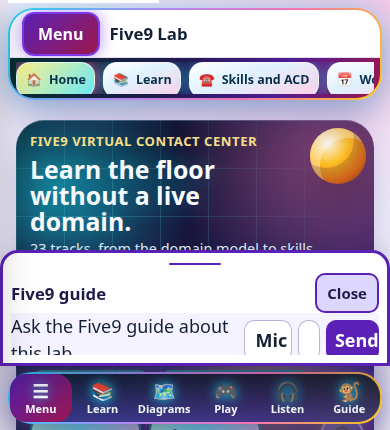
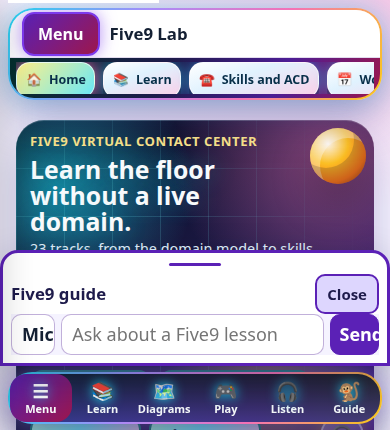
Widen the phone chat field and require a Five9 term for science questions.
The phone label was a flex item, so the input collapsed. Astronomy words no longer open the guide unless a curated Five9 term is present. The score floor stays at 2.4.

Changed region(s): [[0.0308, 0.6349, 0.9846, 0.8465]]

diff --git a/shared/pybot-chat/engine.js b/shared/pybot-chat/engine.js
@@ -236,7 +236,7 @@ function queryTokens(text, syn, pool, knownSet, seedPool, freq) {
     if (!isKnown(word)) {
       const collapsed = collapseToKnown(word, isKnown);
       if (collapsed) word = collapsed;
-      else if (allowFuzzy && !GENERIC_ENGLISH.has(word)) {
+      else if (allowFuzzy && !GENERIC_ENGLISH.has(word) && !GENERIC_ENGLISH.has(stem(word))) {
         const fix = fuzzy(word, pool, 0, freq);
         if (fix) word = fix;
         else if (seedPool && word.length <= 3) {
@@ -318,7 +318,8 @@ function injection(raw) {
 
 const AMBIGUOUS = new Set("set list time key name file type open read match pass break call run end add new get use make home world page level course value data text line number item code help start show play count group say says said want need look come take give know think tell tell history island python microsoft pizza password background crash prime topping change changed".split(" "));
 const STRONG_WORDS = new Set("five9 vcc adp campaign campaigns inbound outbound autodial disposition dispositions dnis ivr skill skills skillgroup queue queues acd preview progressive predictive power tcpa dnc manualtouch sip codec codecs webrtc ani crm cti salesforce servicenow adapter adapters sdk connector recording e911 voicemail prompt prompts profile profiles script scripts module modules gateway cutover partition csq uccx ucce workstation reason erlang supervisor permission contact contacts field fields dialer pacing abandon attestation retention screenpop callerid callanalysis servicelevel acw notready bandwidth nat tls pstn trunk trunks layout reporting wfm wem iva genai adherence forecast schedule quality evaluation coaching analytics wallboard dashboard zoom teams softphone station callback blended listpenetration timezone domain tenant redsky verint studio taskkey nlp transcript headset dns srv srtp rtp java jre variable variables".split(" "));
-const GENERIC_ENGLISH = new Set("time life home world page course help start people person spanish tokyo poem sea thank thanks meaning telephone calorie calories banana capital hiking restaurant population colour color breakfast winter rainfall lullaby haiku mango egg moon landing movie pizza weather flight story dragon cricket tire cake president bitcoin joke french goodbye".split(" "));
+const SCIENCE = new Set("mars jupiter saturn venus mercury neptune uranus pluto planet planets astronomy galaxy orbit orbits nasa solar star stars comet asteroid telescope lunar phobos deimos science physics chemistry biology geology universe cosmos gravity nebula eclipse meteor meteorite quantum einstein molecule molecules electron electrons atom atoms relativity observatory constellation supernova photosynthesis black hole holes dwarf dwarfs pulsar quasar milky moon moons".split(" "));
+const GENERIC_ENGLISH = new Set(`time life home world page course help start people person spanish tokyo poem sea thank thanks meaning telephone calorie calories banana capital hiking restaurant population colour color breakfast winter rainfall lullaby haiku mango egg landing movie pizza weather flight story dragon cricket tire cake president bitcoin joke french goodbye ${[...SCIENCE].join(" ")}`.split(" "));
 
 function buildDomain(df, seeds) {
   const strong = new Set(STRONG_WORDS);
@@ -350,7 +351,7 @@ function domainKind(word, domain, syn) {
 }
 
 function typoKind(word, domain, syn, pool, freq) {
-  if (!word || word.length < 4 || GENERIC_ENGLISH.has(word)) return "";
+  if (!word || word.length < 4 || GENERIC_ENGLISH.has(word) || GENERIC_ENGLISH.has(stem(word))) return "";
   const fix = fuzzy(word, pool, word.length >= 7 ? 2 : 1, freq);
   if (!fix) return "";
   if (STOP.has(fix) || STOP.has(stem(fix))) return "stop";
@@ -380,8 +381,10 @@ function hasDomainTerm(text, domain, syn, pool, freq) {
   let indexed = 0;
   let ambiguous = 0;
   let foreign = 0;
+  let science = 0;
   const lessonWord = (word) => domain.strong.has(word) || domain.strong.has(stem(word));
   for (const word of parts) {
+    if (SCIENCE.has(word) || SCIENCE.has(stem(word))) science += 1;
     if (inCurated(word, syn)) {
       curated += 1;
       continue;
@@ -401,6 +404,7 @@ function hasDomainTerm(text, domain, syn, pool, freq) {
     else if (word.length <= 3 || STOP.has(stem(word))) continue;
     else foreign += 1;
   }
+  if (science > 0 && curated === 0) return false;
   if (foreign > 0 && curated <= foreign) return false;
   if (curated > 0) return true;
   if (ambiguous > 0 && indexed === 0) return false;
@@ -626,7 +630,7 @@ export function createRetriever(index) {
       const stopFix = fuzzy(word, STOP_WORDS, 1);
       if (stopFix) return stopFix;
     }
-    if (!allowFuzzy || GENERIC_ENGLISH.has(word)) return word;
+    if (!allowFuzzy || GENERIC_ENGLISH.has(word) || GENERIC_ENGLISH.has(stem(word))) return word;
     const fix = fuzzy(word, pool, 0, freq);
     if (fix) return fix;
     if (word.length <= 4) {

diff --git a/tests/lab.spec.js b/tests/lab.spec.js
@@ -95,6 +95,32 @@ test("short phone shows the chat input and Send", async ({ browser }) => {
   await context.close();
 });
 
+test("chat input fills the phone sheet", async ({ browser }) => {
+  for (const viewport of [
+    { width: 390, height: 844 },
+    { width: 390, height: 430 },
+  ]) {
+    const context = await browser.newContext({
+      viewport,
+      hasTouch: true,
+      reducedMotion: "reduce",
+    });
+    const page = await context.newPage();
+    await ready(page);
+    await page.goto("/index.html");
+    await page.locator(".cg-monkey").click();
+    await page.waitForFunction(() => window.__f9botReady === true);
+    const input = page.locator("#py-chat-input");
+    await expect(input).toBeVisible();
+    const box = await input.boundingBox();
+    expect(box, `${viewport.width}x${viewport.height}`).toBeTruthy();
+    expect(box.width, `${viewport.width}x${viewport.height} input width`).toBeGreaterThanOrEqual(180);
+    expect(box.y, `${viewport.width}x${viewport.height} input top`).toBeGreaterThanOrEqual(0);
+    expect(box.y + box.height, `${viewport.width}x${viewport.height} input bottom`).toBeLessThanOrEqual(viewport.height);
+    await context.close();
+  }
+});
+
 test("routing desk is a labelled simulation", async ({ page }) => {
   await ready(page);
   await page.goto("/play.html");

diff --git a/shared/pybot-chat/chat.css b/shared/pybot-chat/chat.css
@@ -45,10 +45,22 @@
 .py-msg-code { margin: 6px 0 0; padding: 6px; overflow: auto; border-radius: 8px; background: var(--code-bg, var(--bg)); font-size: 0.75rem; }
 .py-chat-try { margin: 0; font-size: 0.75rem; text-transform: uppercase; letter-spacing: 0.08em; color: var(--muted); }
 .py-chat-examples, .py-chat-chips { display: flex; gap: 6px; overflow-x: auto; }
-.py-chat-form { display: flex; gap: 6px; align-items: center; }
+.py-chat-form { position: relative; display: flex; gap: 6px; align-items: center; width: 100%; min-width: 0; }
+.py-chat-form .visually-hidden {
+  position: absolute;
+  width: 1px;
+  height: 1px;
+  padding: 0;
+  margin: -1px;
+  overflow: hidden;
+  clip: rect(0, 0, 0, 0);
+  white-space: nowrap;
+  border: 0;
+}
 .py-chat-form input {
-  flex: 1;
-  min-width: 0;
+  flex: 1 1 auto;
+  width: 100%;
+  min-width: 180px;
   min-height: 44px;
   padding: 6px 10px;
   border-radius: 10px;
@@ -86,6 +98,9 @@
   .py-chat { margin-top: 4px; min-height: 0; }
   .py-chat-log { max-height: 64px; }
   .py-chat-form { flex: 0 0 auto; }
+}
+@media (max-width: 720px) {
+  .py-chat-form { order: -1; flex: 0 0 auto; }
 }
 @media (max-width: 420px) {
   .py-chat-log { max-height: 88px; }

diff --git a/sw.js b/sw.js
@@ -1,6 +1,6 @@
 /* Offline shell for the Five9 university. Scope is this directory.
    Precache list is rewritten by scripts/build_precache.mjs. Budget 3.5 MB. */
-const CACHE_NAME = "five9-university-r6";
+const CACHE_NAME = "five9-university-r7";
 const SHELL_ASSETS = [
   "./",
   "./index.html",
